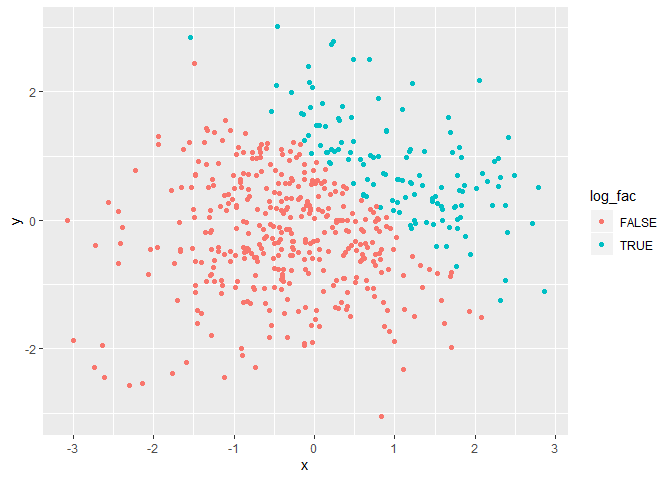
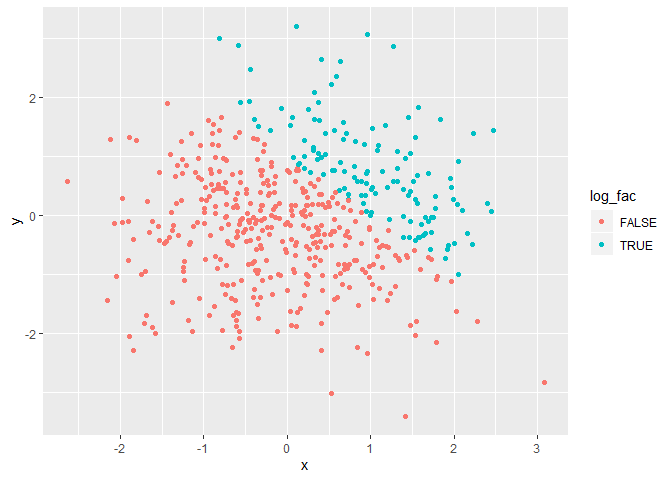
Adding more descriptions and formatting minor things

diff --git a/p8105_hw1_jt3175.md b/p8105_hw1_jt3175.md
@@ -34,27 +34,25 @@ simple_df1 = tibble(
 
 If I attempt to take the mean of each variable in the dataframe, we
 obtain values for the numeric and logical variables, but see an error
-for the character and factor
-    variables.
+and end up with NA for the character and factor variables. This is what
+we would expect, since you cannot perform mathematical operations on
+words.
 
 ``` r
 mean(pull(simple_df1, sample_norm))
 ```
 
-    ## [1] -0.3222651
+    ## [1] 0.4611792
 
 ``` r
 mean(pull(simple_df1, gr_th_0))
 ```
 
-    ## [1] 0.375
+    ## [1] 0.625
 
 ``` r
 mean(pull(simple_df1, vec_char))
 ```
-
-    ## Warning in mean.default(pull(simple_df1, vec_char)): argument is not
-    ## numeric or logical: returning NA
 
     ## [1] NA
 
@@ -62,25 +60,22 @@ mean(pull(simple_df1, vec_char))
 mean(pull(simple_df1, vec_factor))
 ```
 
-    ## Warning in mean.default(pull(simple_df1, vec_factor)): argument is not
-    ## numeric or logical: returning NA
-
     ## [1] NA
 
 The below code chunk applies the *as.numeric* function to the logical,
 character, and factor variables. We see that both logical and factor
 variables can be converted to numeric, though the mean of a logical
-variable can be taken without conversion. Character variables are unable
-to be converted to numeric this way, and we are still unable to take the
-mean. When we use the *as.numeric* function on the factor variable, each
-element assumes the value of it’s level, which is not particularly
-helpful for analysis in most cases. This shows that, even though I have
-typed numbers in my character variable, R does not understand the
-meaning and cannot evaluate them.
+variable could be taken without conversion as seen above. Character
+variables are unable to be converted to numeric this way. This shows
+that, even though I have typed numbers in my character variable, R does
+not understand the meaning and cannot evaluate them. When we use the
+*as.numeric* function on the factor variable, each element assumes the
+value of it’s level’s index, which is not particularly helpful for
+analysis in most cases.
 
 ``` r
 as.numeric(pull(simple_df1, gr_th_0))
-as.numeric(pull(simple_df1, vec_char)) #this gives a warning
+as.numeric(pull(simple_df1, vec_char)) #this does not work
 as.numeric(pull(simple_df1, vec_factor))
 ```
 
@@ -99,7 +94,8 @@ The second scenario does not work because factor variables are
 categorical, so multiplicaiton cannot be performed. We see a key
 difference in logical versus numeric versus facor variables. Logical to
 numeric converts *true* to 1 and *false* to 0. However, logical to
-factor converts *true* to 1 and *false* to 2.
+factor converts *true* to 1 and *false* to 2 because of the way factors
+index the components.
 
 ``` r
 log_to_num = as.numeric(pull(simple_df1, gr_th_0))
@@ -119,34 +115,34 @@ rs_x_log_to_fac_to_num = log_to_fac_to_num * pull(simple_df1, sample_norm)
 log_to_num
 ```
 
-    ## [1] 0 1 0 0 0 1 0 1
+    ## [1] 0 1 0 1 1 1 1 0
 
 ``` r
 log_to_fac
 ```
 
-    ## [1] FALSE TRUE  FALSE FALSE FALSE TRUE  FALSE TRUE 
+    ## [1] FALSE TRUE  FALSE TRUE  TRUE  TRUE  TRUE  FALSE
     ## Levels: FALSE TRUE
 
 ``` r
 log_to_fac_to_num
 ```
 
-    ## [1] 1 2 1 1 1 2 1 2
+    ## [1] 1 2 1 2 2 2 2 1
 
 ``` r
 rs_x_log_to_num
 ```
 
-    ## [1] 0.0000000 0.2140363 0.0000000 0.0000000 0.0000000 0.1889077 0.0000000
-    ## [8] 0.6693869
+    ## [1] 0.0000000 0.4057803 0.0000000 1.1008765 1.8698804 0.8360171 0.6877238
+    ## [8] 0.0000000
 
 ``` r
 rs_x_log_to_fac_to_num
 ```
 
-    ## [1] -0.04318744  0.42807255 -1.56864110 -0.68353048 -1.26408677  0.37781538
-    ## [7] -0.09100600  1.33877378
+    ## [1] -0.2565685  0.8115606 -0.6561347  2.2017530  3.7397607  1.6720342
+    ## [7]  1.3754475 -0.2981416
 
 ## Problem 2
 
@@ -162,9 +158,9 @@ simple_df2 = tibble(
 
 The above dataframe contains 5 variables *(x, y, gr\_th\_1, log\_num,
 log\_fac)* of 500 observations each. X and y are both normally
-distributed variables. X has a mean of -0.0138174, median of -0.0664378,
-and standard deviation of 1.0890077. The variable *gr\_th\_1* represents
-whether x + y is greater than 1. There are 127/500 cases where x + y is
+distributed variables. X has a mean of 0.1174541, median of 0.1199176,
+and standard deviation of 1.0026188. The variable *gr\_th\_1* represents
+whether x + y is greater than 1. There are 128/500 cases where x + y is
 greater than 1.
 
 Below are three scatterplots of y vs x. On the first, points are colored
